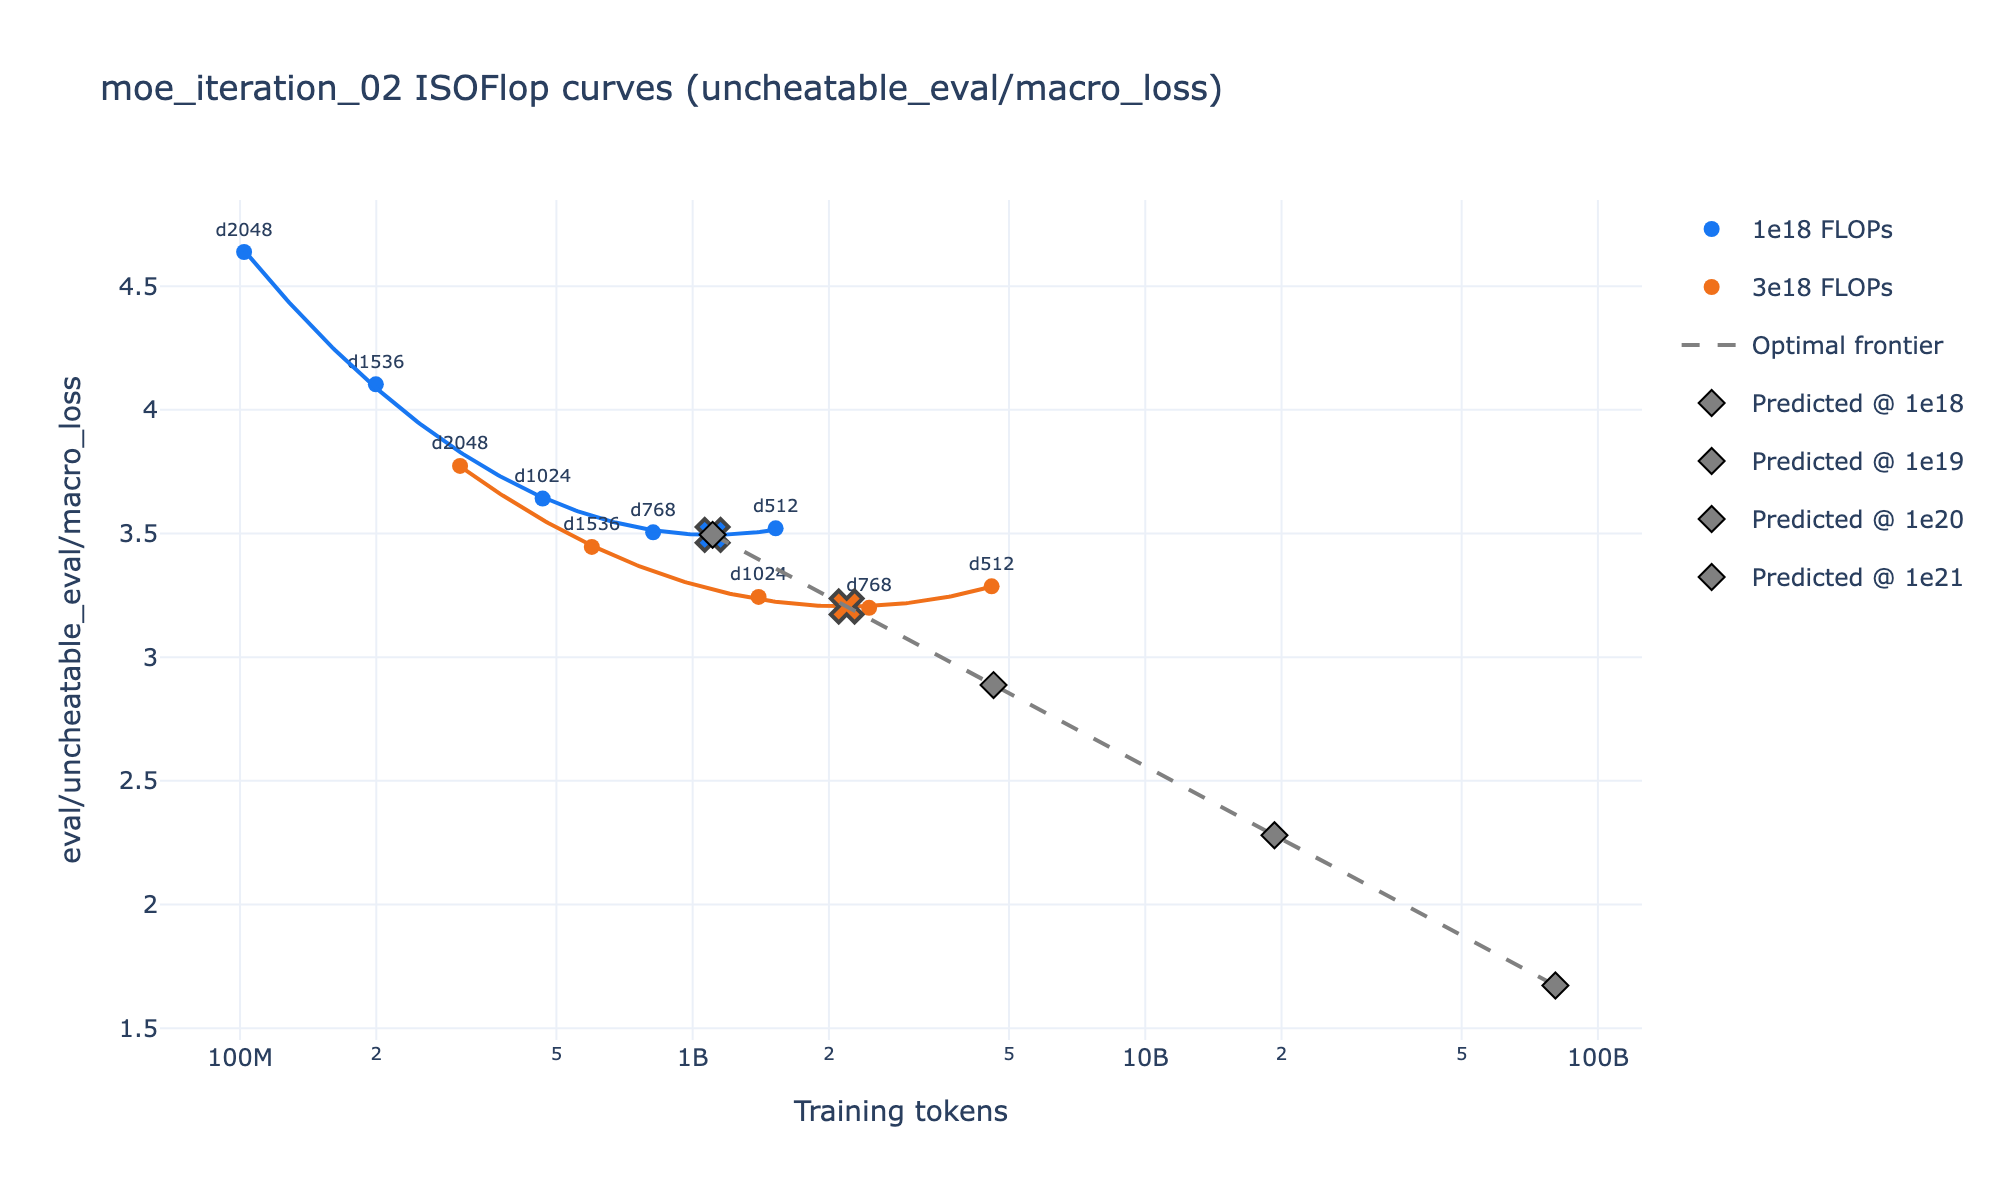
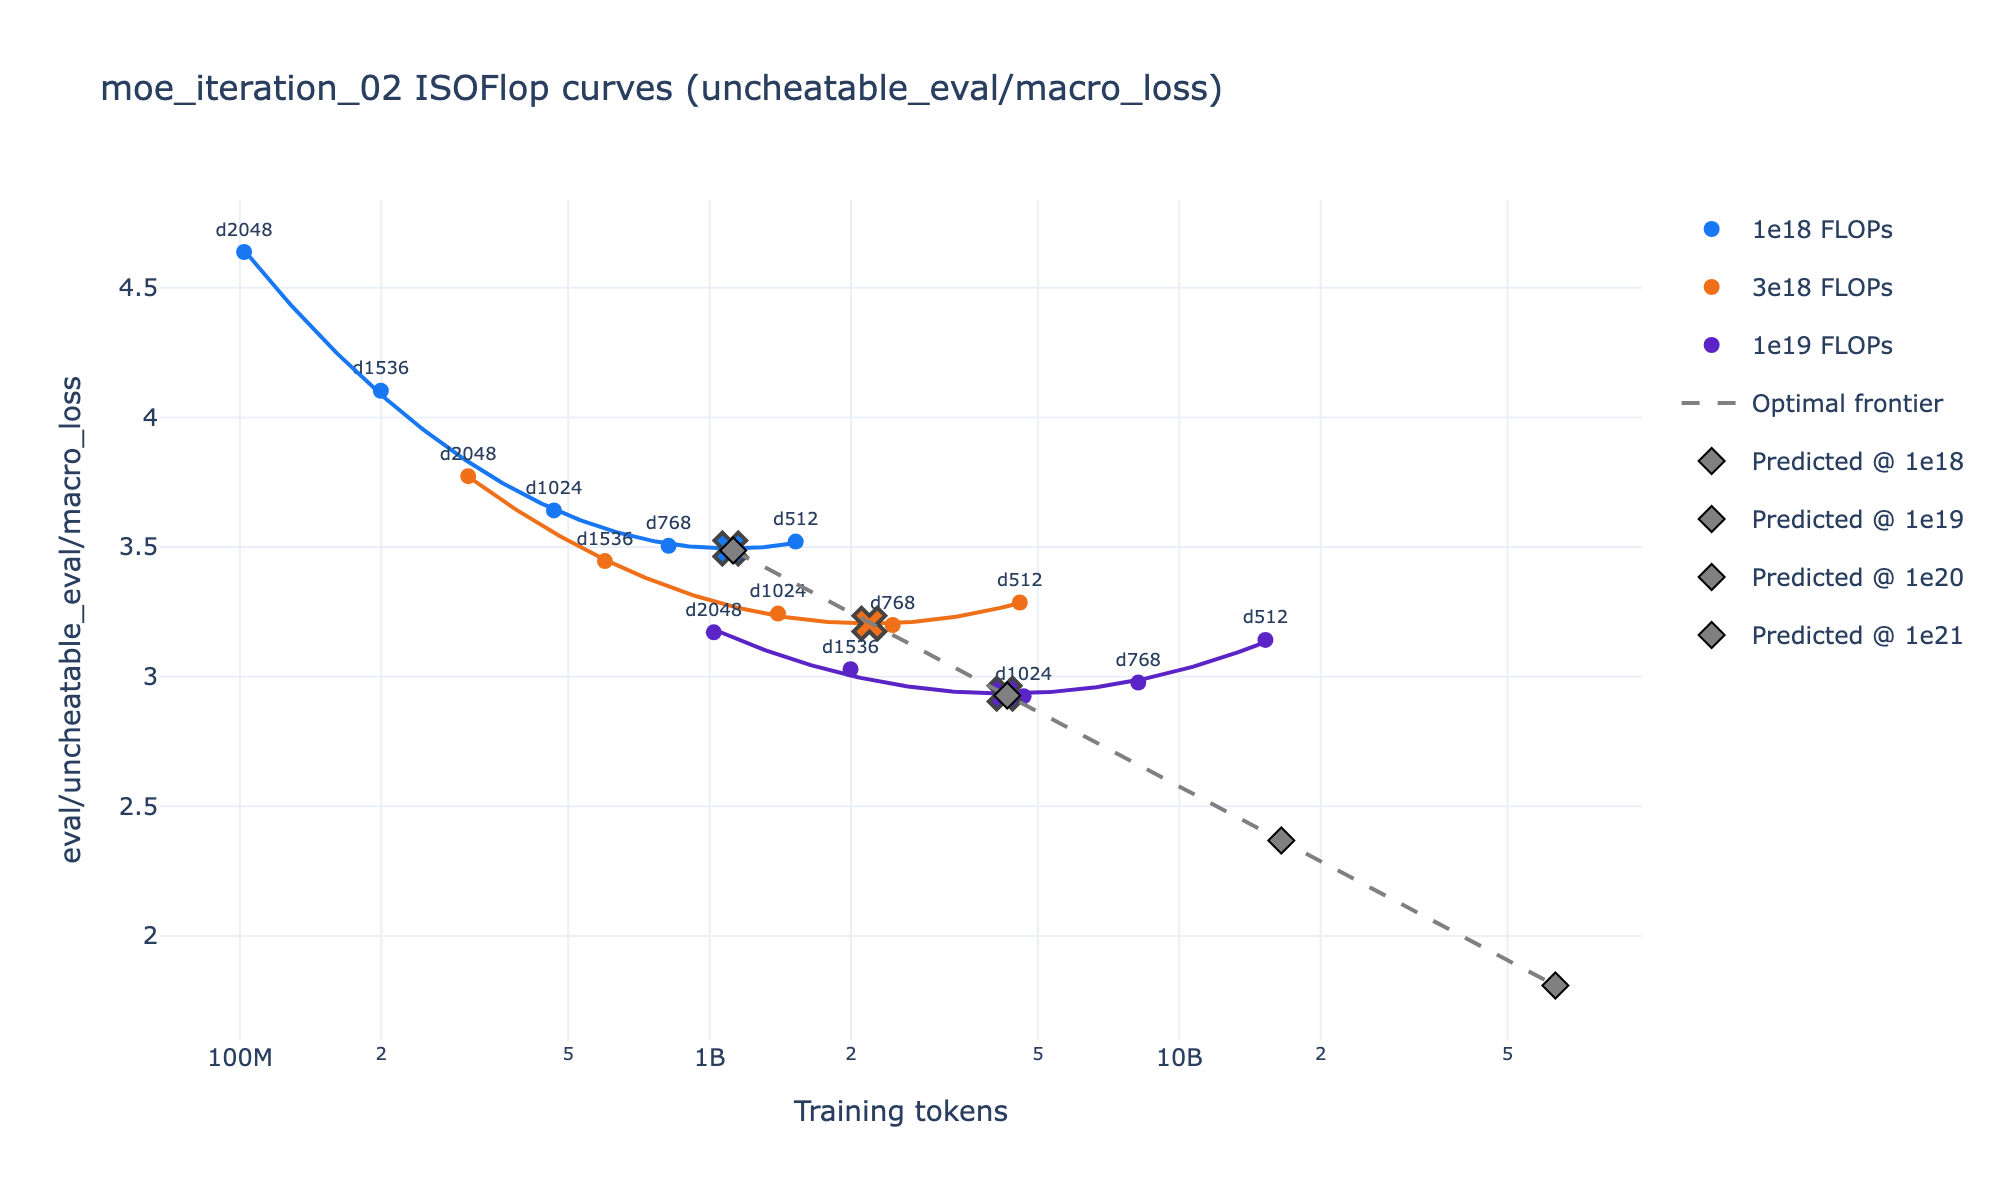
moe_iter_02: merged gate/up weights, softmax routing, 1e21 run, updated isoflop curves

diff --git a/experiments/grug/moe_scaling_iteration_02/launch.py b/experiments/grug/moe_scaling_iteration_02/launch.py
@@ -74,7 +74,7 @@ def run_grug_moe_trial(config: GrugMoeLaunchConfig) -> None:
         mp=jmp.get_policy(config.mp),
         tracker=_resolve_tracker(config.tracker, config.run_id),
         use_explicit_mesh_axes=True,
-        mesh=MeshConfig(axes={"expert": 1}),
+        mesh=MeshConfig(axes={"expert": 4}),
         require_accelerator=True,
         allow_nondivisible_batch_size=False,
         checkpointer=CheckpointerConfig(
@@ -262,11 +262,113 @@ def create_moe_isoflop_steps() -> list[ExecutorStep]:
 
 moe_isoflop_steps = create_moe_isoflop_steps()
 
-moe_1e19_rerun_steps = [s for s in moe_isoflop_steps if "1e+19" in s.name]
+
+# ============================================================
+# 1e21 run: d=2304, 24 layers, batch=512, ~35.8k steps on v4-256
+# ============================================================
+
+
+def create_1e21_run() -> list[ExecutorStep]:
+    hidden_dim = 2304
+    budget = 1e21
+    num_layers = _compute_num_layers(hidden_dim) + 1  # 24 layers (23 + 1)
+
+    num_heads = hidden_dim // 128
+    model_cfg = GrugModelConfig(
+        vocab_size=VOCAB_SIZE,
+        hidden_dim=hidden_dim,
+        intermediate_dim=hidden_dim // 2,
+        shared_expert_intermediate_dim=hidden_dim,
+        num_experts=64,
+        num_experts_per_token=4,
+        num_layers=num_layers,
+        num_heads=num_heads,
+        num_kv_heads=num_heads,
+        max_seq_len=SEQ_LEN,
+        num_dense_layers=2,
+        dense_intermediate_dim=3 * hidden_dim,
+        bias_update_rate=0.01,
+        load_balancing_loss_coef=0.001,
+        sliding_window=4096,
+        initializer_std=0.5 / math.sqrt(hidden_dim),
+        qk_mult=1.3,
+    )
+
+    fpt = _compute_flops_per_token(model_cfg)
+    tokens = budget / (3 * fpt)
+    target_steps = 2**16
+    batch_exact = tokens / (target_steps * SEQ_LEN)
+    batch_size = max(MIN_BATCH_SIZE, _round_to_power_of_two(batch_exact))
+    train_steps = max(1, round(tokens / (batch_size * SEQ_LEN)))
+
+    effective_bs = batch_size * SEQ_LEN / 4096
+    lr = min(0.01, (0.33 * math.sqrt(effective_bs)) / hidden_dim)
+    beta2 = max(0.95, 0.98 ** (effective_bs / 128))
+
+    run_id = "moe-d2304-1e21"
+
+    config = GrugMoeLaunchConfig(
+        model=versioned(model_cfg),
+        data=NEMOTRON_MIX_WITH_DEFAULT_VALIDATION,
+        output_path=this_output_path(),
+        run_id=run_id,
+        resources=versioned(ResourceConfig.with_tpu("v4-256")),
+        steps=versioned(train_steps),
+        batch_size=versioned(batch_size),
+        seed=versioned(0),
+        mp=versioned("params=float32,compute=bfloat16,output=bfloat16"),
+        tracker=WandbConfig(
+            project="dial_moe",
+            tags=["grug", "moe-core", "d2304", "1e21"],
+            group="moe-1e21",
+            name=run_id,
+        ),
+        optimizer=versioned(
+            AdamConfig(
+                learning_rate=lr,
+                beta1=0.96,
+                beta2=beta2,
+                epsilon=1e-15,
+                weight_decay=0.1,
+                lr_schedule="linear",
+                decay=0.2,
+                min_lr_ratio=0.0,
+                warmup=0.1,
+                max_grad_norm=1,
+            )
+        ),
+        grug_trainer=versioned(
+            GrugTrainerConfig(
+                z_loss_weight=1e-4,
+                ema_beta=None,
+                log_every=1,
+            )
+        ),
+        eval=versioned(
+            GrugEvalConfig(
+                eval_batch_size=512,
+                steps_per_eval=1000,
+                max_eval_batches=8,
+                eval_current=True,
+                eval_ema=False,
+            )
+        ),
+    )
+
+    return [
+        ExecutorStep(
+            name="grug/moe-d2304-1e21",
+            fn=run_grug_moe_trial,
+            config=config,
+        )
+    ]
+
+
+e21_run_steps = create_1e21_run()
 
 
 if __name__ == "__main__":
     executor_main(
-        steps=moe_1e19_rerun_steps,
-        description="MoE isoflop sweep v3 - 1e19 reruns",
+        steps=e21_run_steps,
+        description="MoE d=2304, 1e21 FLOPs",
     )

diff --git a/experiments/grug/moe_scaling_iteration_02/model.py b/experiments/grug/moe_scaling_iteration_02/model.py
@@ -309,8 +309,7 @@ def _histogram_from_expert_counts(expert_counts: jax.Array) -> Histogram:
 class MoEMLP(eqx.Module):
     router: jax.Array
     router_bias: jax.Array
-    w_gate: jax.Array
-    w_up: jax.Array
+    w_gate_up: jax.Array  # merged gate+up: (E, D, 2*I)
     w_down: jax.Array
     cfg: GrugModelConfig = eqx.field(static=True)
 
@@ -329,11 +328,14 @@ class MoEMLP(eqx.Module):
             cfg.intermediate_dim,
         )
 
+        w_gate = _init_weight(k_gate, (e, d, i), cfg.initializer_std)
+        w_up = _init_weight(k_up, (e, d, i), cfg.initializer_std)
+        w_gate_up = jnp.concatenate([w_gate, w_up], axis=-1)  # (E, D, 2*I)
+
         return MoEMLP(
             router=reshard(_init_weight(k_router, (d, e), cfg.initializer_std), P(None, None)),
             router_bias=jnp.zeros((e,)),
-            w_gate=reshard(_init_weight(k_gate, (e, d, i), cfg.initializer_std), P("expert", "data", "model")),
-            w_up=reshard(_init_weight(k_up, (e, d, i), cfg.initializer_std), P("expert", "data", "model")),
+            w_gate_up=reshard(w_gate_up, P("expert", "data", "model")),
             w_down=reshard(_init_weight(k_down, (e, i, d), cfg.initializer_std), P("expert", "model", "data")),
             cfg=cfg,
         )
@@ -352,7 +354,7 @@ class MoEMLP(eqx.Module):
         _topk_logits, selected_experts = jax.lax.top_k(biased_logits, self.cfg.num_experts_per_token)
         # Combine weights use unbiased logits with softmax over selected experts
         unbiased_topk = jnp.take_along_axis(router_logits, selected_experts, axis=-1)
-        combine_weights = jax.nn.sigmoid(unbiased_topk).astype(x.dtype)
+        combine_weights = jax.nn.softmax(unbiased_topk, axis=-1).astype(x.dtype)
         router_stats = _routing_stats(
             selected_experts,
             router_probs,
@@ -361,12 +363,11 @@ class MoEMLP(eqx.Module):
             num_experts_per_token=self.cfg.num_experts_per_token,
         )
 
-        w_up_gate = jnp.concatenate([self.w_gate, self.w_up], axis=-1)
         routed_flat = moe_mlp(
             x_flat,
             selected_experts.astype(jnp.int32),
             combine_weights,
-            w_up_gate,
+            self.w_gate_up,
             self.w_down,
             activation=ActivationFunctionEnum.silu,
             mesh=get_abstract_mesh(),
